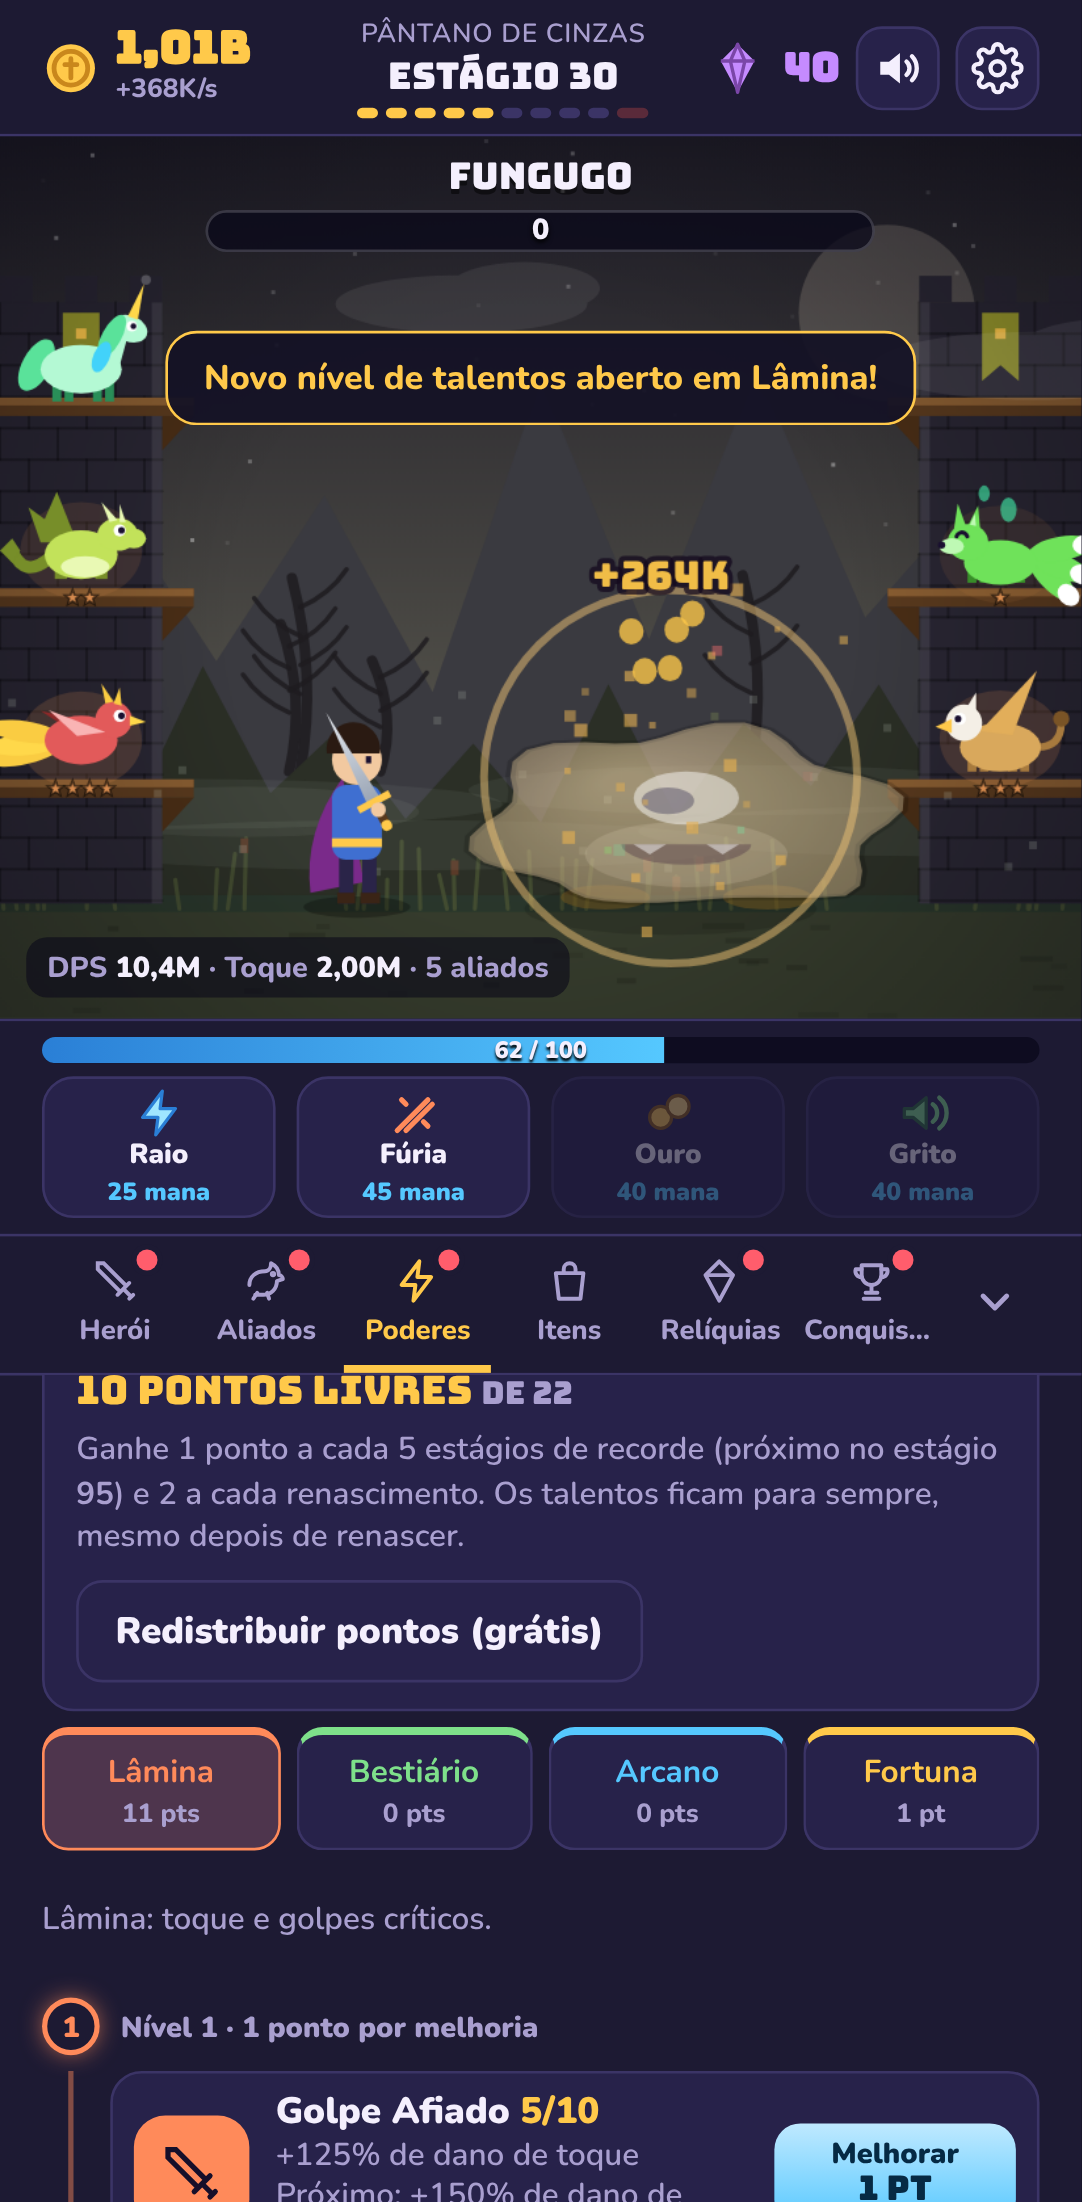
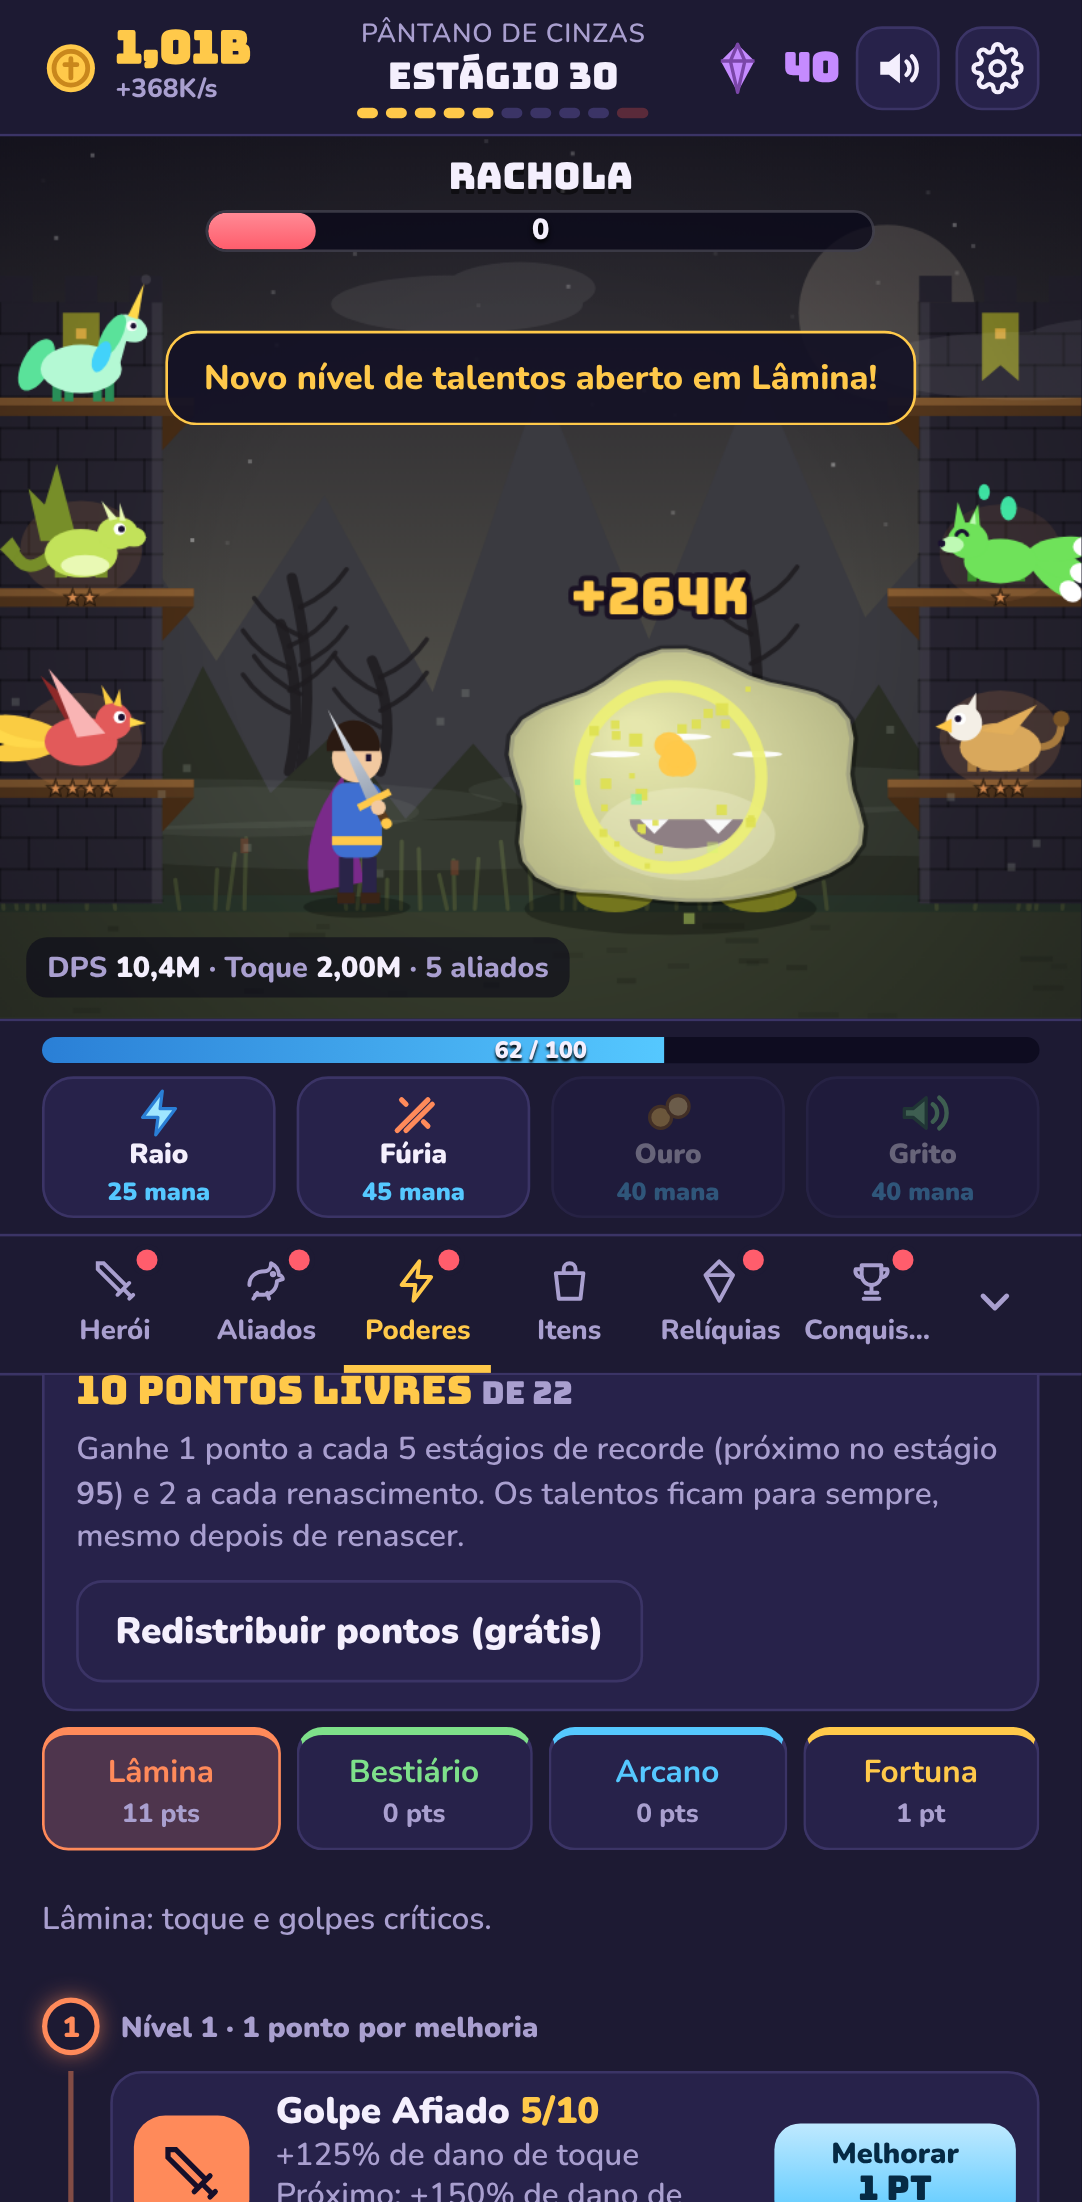
Permite restaurar cópias automáticas e oferece a melhor cópia ao abrir
- Configurações listam backup e cópias rotativas com resumo e botão Restaurar
- Ao abrir, se houver cópia com 10+ estágios de recorde acima do jogo atual,
  o jogo oferece restaurá-la (pode ser recusado)
- O progresso atual vai para as cópias de segurança antes de qualquer troca

Claude-Session: https://claude.ai/code/session_0182wX4F9bqXEHrE8Hu4N6xH

diff --git a/jogo-lamina-runica/index.html b/jogo-lamina-runica/index.html
@@ -3346,13 +3346,65 @@ function restoreSafety(reason, label) {
       });
     });
 }
-const SAFETY_LABELS = { import: 'progresso de antes da última importação', reset: 'progresso apagado', cloud: 'progresso deste aparelho de antes da nuvem', cloudRemote: 'cópia da nuvem não usada', repair: 'save original antes das correções automáticas', recover: 'melhor cópia de antes do novo jogo' };
+const SAFETY_LABELS = { auto: 'progresso de antes de restaurar uma cópia automática', import: 'progresso de antes da última importação', reset: 'progresso apagado', cloud: 'progresso deste aparelho de antes da nuvem', cloudRemote: 'cópia da nuvem não usada', repair: 'save original antes das correções automáticas', recover: 'melhor cópia de antes do novo jogo' };
+
+// Cópias automáticas guardadas neste navegador (backup + cópias rotativas), da mais nova para a mais antiga.
+function autoCopies() {
+  const out = [];
+  const add = (source, label, text) => {
+    if (!text) return;
+    const r = decodeSave(text);
+    if (r.ok) out.push({ source, label, r, at: peekSave(text).at || r.state.lastSave || 0 });
+  };
+  add('backup', 'Backup (salvamento anterior)', Store.get(BACKUP_KEY));
+  for (let i = 0; i < SNAP_COUNT; i++) add('snap' + i, 'Cópia automática', Store.get(SNAP_KEY + i));
+  return out.sort((a, b) => b.at - a.at);
+}
+function restoreAuto(source) {
+  const c = autoCopies().find(x => x.source === source);
+  if (!c) { toast('Essa cópia não está mais disponível.', 'bad'); return; }
+  openModal(`<h2>Restaurar esta cópia?</h2>
+    <p>${esc(c.label)} de ${esc(fmtDate(c.at))}. O progresso atual fica guardado em “Cópias de segurança”, então a troca pode ser desfeita.</p>
+    ${summaryCard('Progresso atual', saveSummary(S))}${summaryCard('Cópia', saveSummary(c.r.state))}
+    <div class="btns"><button class="btn primary" id="okAuto">Restaurar</button><button class="btn" data-close>Cancelar</button></div>`,
+    sh => {
+      const ok = sh.querySelector('#okAuto');
+      ok.addEventListener('click', () => {
+        if (ok.disabled) return; ok.disabled = true;
+        const cur = serialize();
+        writeSafety('auto', cur);
+        applyState(c.r.state, { snapshot: true });
+        cloudSave(); closeModal(); toast('Progresso restaurado!', 'gold');
+      });
+    });
+}
+// Ao abrir: se houver neste navegador uma cópia com muito mais progresso que o save atual, oferece restaurar.
+const BETTER_DISMISS_KEY = 'laminaRunica.betterDismissed';
+function checkBetterCopy(tries = 0) {
+  if (saveBlock) return;
+  if (!$('#modal').hidden) { if (tries < 10) setTimeout(() => checkBetterCopy(tries + 1), 2500); return; }
+  const best = autoCopies().filter(c => c.r.state.maxStage >= S.maxStage + 10).sort((a, b) => b.r.state.maxStage - a.r.state.maxStage)[0];
+  if (!best || Store.get(BETTER_DISMISS_KEY) === String(best.at)) return;
+  openModal(`<h2>Encontramos um progresso maior</h2>
+    <p>Este navegador tem uma cópia automática mais avançada que o jogo atual. Quer voltar para ela?</p>
+    ${summaryCard('Jogo atual', saveSummary(S))}${summaryCard('Cópia encontrada', saveSummary(best.r.state))}
+    <div class="btns"><button class="btn primary" id="okBetter">Restaurar a cópia</button><button class="btn" id="noBetter">Manter o jogo atual</button></div>`,
+    sh => {
+      sh.querySelector('#okBetter').addEventListener('click', () => {
+        writeSafety('auto', serialize());
+        applyState(best.r.state, { snapshot: true });
+        cloudSave(); closeModal(); toast('Progresso restaurado!', 'gold');
+      });
+      sh.querySelector('#noBetter').addEventListener('click', () => { Store.set(BETTER_DISMISS_KEY, String(best.at)); closeModal(); });
+    });
+}
 
 function openSettings() {
   const st = S.settings;
   const sw = (id, label, hint) => `<div class="setRow"><label for="${id}">${label}${hint ? `<small>${hint}</small>` : ''}</label><input type="checkbox" class="switch" id="${id}" ${st[id] ? 'checked' : ''}></div>`;
   const range = (id, label, v) => `<div class="setRow"><label for="${id}">${label}</label><input type="range" id="${id}" min="0" max="1" step="0.05" value="${v}"></div>`;
   const safeties = Object.keys(SAFETY_LABELS).map(k => [k, readSafety(k)]).filter(([, o]) => o);
+  const autos = autoCopies();
   openModal(`
     <h2>Configurações</h2>
     <div class="sectionLabel">Som e toque</div>
@@ -3392,6 +3444,10 @@ function openSettings() {
     </div>
     ${safeties.length ? `<div class="sectionLabel">Cópias de segurança guardadas</div>
       ${safeties.map(([k, o]) => `<div class="setRow"><label>${esc(SAFETY_LABELS[k][0].toUpperCase() + SAFETY_LABELS[k].slice(1))}<small>${esc(fmtDate(o.at))}</small></label><button class="btn" data-restore="${k}">Restaurar</button></div>`).join('')}` : ''}
+    <div class="sectionLabel">Cópias automáticas neste navegador</div>
+    ${autos.length ? autos.map(c => { return `<div class="setRow"><label>${esc(c.label)}<small>${esc(fmtDate(c.at))} · estágio ${esc(String(c.r.state.stage))} · recorde ${esc(String(c.r.state.maxStage))} · ${esc(String(c.r.state.essTotal))} essências</small></label><button class="btn" data-restoreauto="${c.source}">Restaurar</button></div>`; }).join('')
+      : '<p class="muted">Nenhuma cópia automática guardada ainda. O jogo guarda uma a cada 10 minutos de jogo.</p>'}
+    <p class="muted">O progresso fica só neste navegador. Outro navegador, outro aparelho, o app em vez do site, a janela anônima ou a limpeza dos dados do site começam um jogo separado. Para não perder nada, guarde um código de backup de vez em quando.</p>
     <div class="sectionLabel">Zona de perigo</div>
     <div class="btns"><button class="btn danger" id="resetBtn">Apagar todo o progresso</button></div>
     <p class="muted">Ao apagar, uma cópia do progresso atual fica guardada nesta tela e pode ser restaurada.</p>
@@ -3451,6 +3507,7 @@ function openSettings() {
       const rd = new FileReader(); rd.onload = () => tryImport(String(rd.result)); rd.onerror = () => toast('Não foi possível ler o arquivo.', 'bad'); rd.readAsText(f);
     });
     sh.querySelectorAll('[data-restore]').forEach(b => b.addEventListener('click', () => restoreSafety(b.dataset.restore, SAFETY_LABELS[b.dataset.restore])));
+    sh.querySelectorAll('[data-restoreauto]').forEach(b => b.addEventListener('click', () => restoreAuto(b.dataset.restoreauto)));
     const rb = sh.querySelector('#resetBtn');
     rb.addEventListener('click', () => {
       if (!rb.classList.contains('armed')) {
@@ -3768,6 +3825,7 @@ function start(hotData) {
   // Ganchos de teste: só existem com #teste no endereço. Não dão poder que o próprio navegador já não dê ao jogador.
   if (location.hash === '#teste') window.__lr = { get S() { return S; }, spawnWisp, wispPos, get wisp() { return wisp; }, rollRarity, makeItem, grantItem, bossDrop, equipItem,
     save, Session, Store, get saveBlock() { return saveBlock; }, get foe() { return foe; }, killFoe, bossEscaped, challengeBoss, prestige, salvageItem, claimQuest, claimDaily, claimAch, ACH, exportCode, tryImport, doTap };
+  if (!fresh && !saveBlock) setTimeout(() => checkBetterCopy(), 1800);
   lastTick = performance.now();
   requestAnimationFrame(frame);
   cloudInit();

diff --git a/jogo-lamina-runica/README.md b/jogo-lamina-runica/README.md
@@ -82,6 +82,12 @@ As estrelas aparecem na lista e na plataforma de cada criatura. A partir de Ouro
 - **Exportar e importar**: em Configurações, gere um código `LR1.…` (ou baixe um arquivo). Ao importar, o jogo mostra um resumo dos dois progressos, guarda uma cópia do atual e só então troca. A cópia aparece em **Cópias de segurança guardadas** e pode ser restaurada. Códigos antigos continuam válidos.
 - **Apagar progresso** pede confirmação dupla e guarda uma cópia restaurável.
 
+### Recuperar progresso
+
+- Em **Configurações → Cópias automáticas neste navegador** aparecem o backup e as até 3 cópias automáticas (uma a cada 10 min de jogo), com estágio, recorde, essências e data. Qualquer uma pode ser restaurada; o progresso atual fica guardado e a troca pode ser desfeita.
+- Ao abrir o jogo, se este navegador tiver uma cópia com 10 ou mais estágios de recorde acima do jogo atual, o jogo oferece restaurá-la.
+- Se o navegador não tiver nenhum dado do jogo (outro navegador, outro aparelho, app em vez do site, janela anônima ou dados do site apagados), não há o que recuperar ali: o progresso só existe onde foi jogado, ou num código de backup.
+
 ### Link compartilhado × progresso
 
 O progresso fica no armazenamento do navegador (`localStorage`), separado por navegador, perfil e endereço do site.
